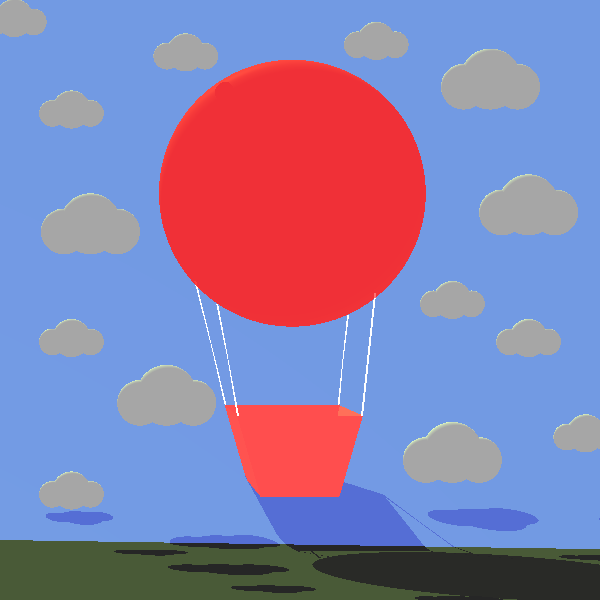
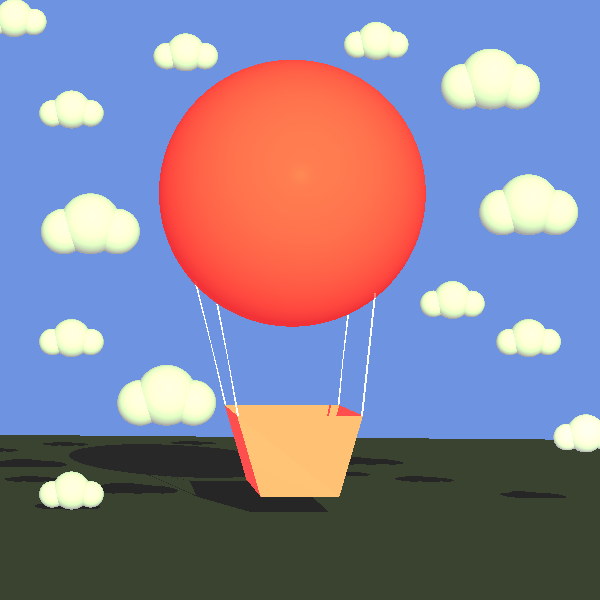
making pic 3d

diff --git a/unitTests/MiniProj1/hotAirBaloon.java b/unitTests/MiniProj1/hotAirBaloon.java
@@ -231,6 +231,9 @@ public class hotAirBaloon {
         Point p3 = new Point(100, -50, -100);
 
         scene4.geometries.add( //
+
+                new Plane(new Point(0,-55,-750),new Vector(0,0.5,0)).setEmission(Color.BLACK)
+                        .setMaterial(new Material().setkD(0.5).setkS(0.5).setnShininess(100)),
                 //basket
                 //bottom
                 Bottom1.setMaterial(new Material().setkD(0.5).setkS(0.3).setnShininess(100)).setEmission(new Color(500, 40, 40)), //
@@ -467,13 +470,13 @@ public class hotAirBaloon {
 //CLOUD bottom right  LITTLE
                 new Sphere(new Point(75, -35, -50), 5d)
                         .setEmission(new Color(gray)) //
-                        .setMaterial(new Material().setkD(0.74).setkS(0.003).setnShininess(100).setkT(0)),
+                        .setMaterial(new Material().setkD(0.74).setkS(0.003).setnShininess(100).setkT(0.1)),
                 new Sphere(new Point(80, -36, -50), 3.5d)
                         .setEmission(new Color(gray)) //
-                        .setMaterial(new Material().setkD(0.74).setkS(0.003).setnShininess(100).setkT(0)),
+                        .setMaterial(new Material().setkD(0.74).setkS(0.003).setnShininess(100).setkT(0.1)),
                 new Sphere(new Point(70, -36, -50), 3.5d)
                         .setEmission(new Color(gray)) //
-                        .setMaterial(new Material().setkD(0.74).setkS(0.003).setnShininess(100).setkT(0)),
+                        .setMaterial(new Material().setkD(0.74).setkS(0.003).setnShininess(100).setkT(0.1)),
 
 
 
@@ -482,16 +485,19 @@ public class hotAirBaloon {
 
                 //CLOUD LOWER RIGHT BIG
 
+                /*
                 new Sphere(new Point(40, -40, -50), 8d)
                 .setEmission(new Color(gray)) //
-                .setMaterial(new Material().setkD(0.800004).setkS(0.003).setnShininess(100).setkT(0)),
+                .setMaterial(new Material().setkD(0.800004).setkS(0.003).setnShininess(100).setkT(0.5)),
                 new Sphere(new Point(47, -42, -50), 6d)
                         .setEmission(new Color(gray)) //
-                        .setMaterial(new Material().setkD(0.800004).setkS(0.03).setnShininess(100).setkT(0)),
+                        .setMaterial(new Material().setkD(0.800004).setkS(0.03).setnShininess(100).setkT(0.5)),
                 new Sphere(new Point(33, -42, -50), 6d)
                         .setEmission(new Color(gray)) //
-                        .setMaterial(new Material().setkD(0.800004).setkS(0.03).setnShininess(100).setkT(0.00003)),
+                        .setMaterial(new Material().setkD(0.800004).setkS(0.03).setnShininess(100).setkT(0.5)),
                 new Sphere(new Point(5,-50,-100),2).setEmission(new Color(RED)),
+
+                 */
                   /*
                   //back pyramid
                 new Triangle(new Point(50,-40,60),
@@ -519,11 +525,14 @@ public class hotAirBaloon {
 
 
  */
-                new Plane(new Point(50,-60,-100),new Vector(0,1,0)).setEmission(Color.BLACK).setMaterial(new Material().setkD(0.5).setkS(0.5).setnShininess(100)),
 
-                new Plane(new Point(5,-50,-100), new Vector(5,-240,-20))
+
+
+                new Plane(new Point(5,-80,-300), new Vector(5,-240,-20))
                         .setEmission(new Color(135, 206, 500).scale(0.35))//
                         .setMaterial(new Material().setkD(0.5).setkS(0.5).setnShininess(100))
+
+
 
 
 
@@ -531,23 +540,31 @@ public class hotAirBaloon {
                 //new Plane(p1, p2, p3).setEmission(new Color(white)).setMaterial(new Material().setkD(0.4).setkS(0.3).setnShininess(100))
 
         );
-        scene4.lights.add(new SpotLight(new Color(500, 600, 400),
-                new Point(-100, -100, 500),
-                new Vector(-1, -1, -2)) //
-                .setKl(0.0004).setKq(0.0000006));
+        ///scene4.lights.add(new SpotLight(new Color(500, 600, 400),
+           //     new Point(-100, -100, 500),
+             //   new Vector(-1, -1, -2)) //
+        // .setKl(0.0004).setKq(0.0000006));
 
-        scene4.lights.add(new DirectionalLight(new Color(200,300,100).scale(0.8),new Vector(1,-2,4)));
+        //scene4.lights.add(new DirectionalLight(new Color(200,300,100).scale(0.8),new Vector(20,-18,20)));
+
+        scene4.lights.add(new DirectionalLight(new Color(200,300,100).scale(0.8),new Vector(-1,-2,-8)));
 
         /*
         //scene4.lights.add(new SpotLight(new Color(255,255,20),new Point(40, -40, -50), new Vector(1,-1,0)));
         //scene4.lights.add(new SpotLight(new Color(255,255,20),new Point(47, -42, -50), new Vector(1,-1,0)));
         //scene4.lights.add(new SpotLight(new Color(255,255,20),new Point(33, -42, -50), new Vector(1,-1,0)));
+        */
 
 
-        //scene4.lights.add(new SpotLight(new Color(255,255,20),new Point(75, -35, -50), new Vector(1,-1,0)));
-        //scene4.lights.add(new SpotLight(new Color(255,255,20),new Point(80, -36, -50), new Vector(1,-1,0)));
-        //scene4.lights.add(new SpotLight(new Color(255,255,20),new Point(70, -36, -50), new Vector(1,-1,0)));
+        //scene4.lights.add(new SpotLight(new Color(255,255,20),new Point(20, 68, -50), new Vector(1,-1,0)));
+        //scene4.lights.add(new SpotLight(new Color(255,255,20),new Point(25, 67, -50), new Vector(1,-1,0)));
+        //scene4.lights.add(new SpotLight(new Color(255,255,20),new Point(15, 67, -50), new Vector(1,-1,0)));
 
+        //scene4.lights.add(new PointLight(new Color(255,255,20),new Point(20, 68, -50)));
+        //scene4.lights.add(new PointLight(new Color(255,255,20),new Point(25, 67, -50)));
+        //scene4.lights.add(new PointLight(new Color(255,255,20),new Point(15, 67, -50)));
+
+        /*
         //scene4.lights.add(new SpotLight(new Color(255,255,20),new Point(30, -75, -50), new Vector(1,-1,0)));
         //scene4.lights.add(new SpotLight(new Color(255,255,20),new Point(35, -76, -50), new Vector(1,-1,0)));
         //scene4.lights.add(new SpotLight(new Color(255,255,20),new Point(25, -76, -50), new Vector(1,-1,0)));
